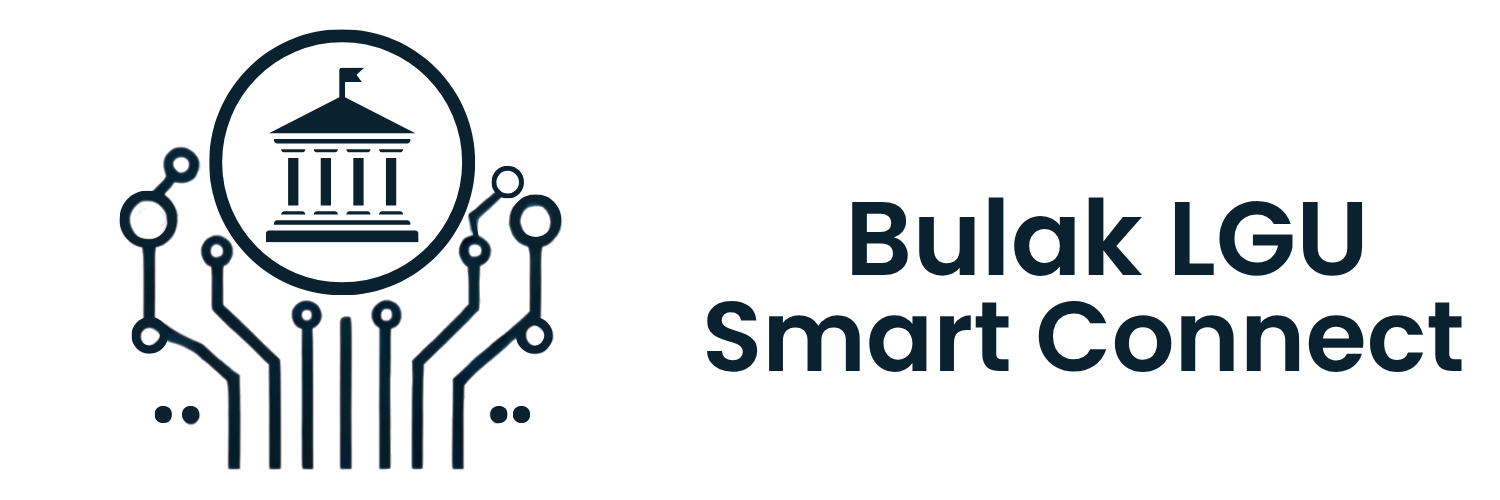
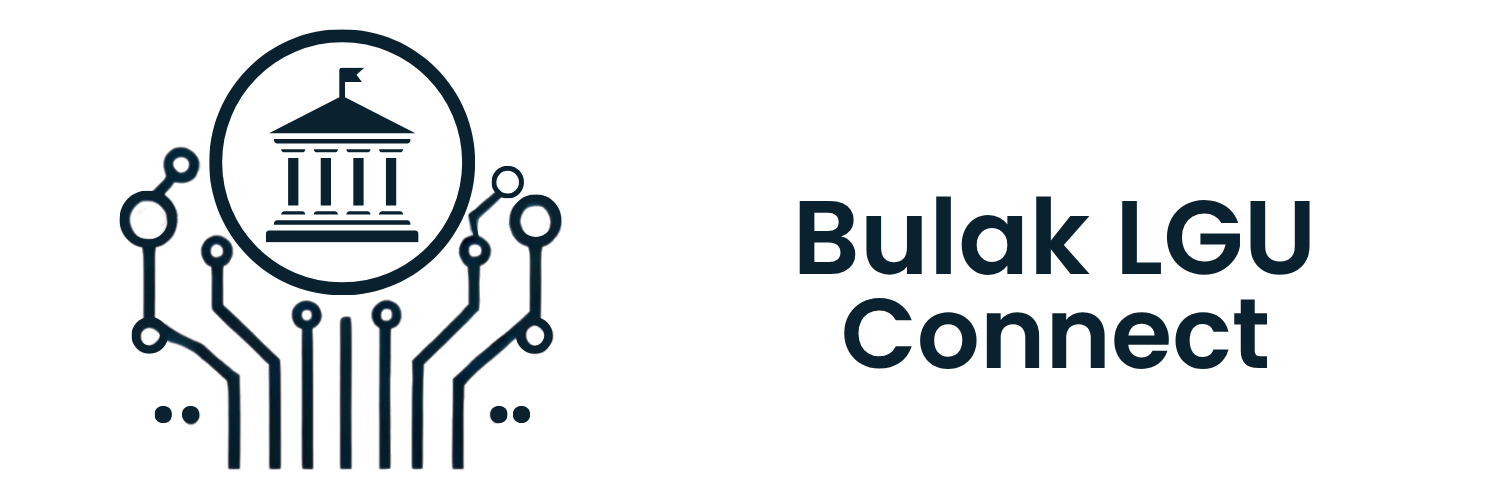
replace project titlle to Bulak LGU Connect

Changed region(s): [[0.46, 0.6, 0.9813, 0.75], [0.5213, 0.39, 0.92, 0.57]]

diff --git a/bulak-smart-connect-js/src/UserBulakSmartConnect/TermsAndConditionComponents/TermsAndCondition.jsx b/bulak-smart-connect-js/src/UserBulakSmartConnect/TermsAndConditionComponents/TermsAndCondition.jsx
@@ -36,9 +36,8 @@ const PrivacyPolicy = () => {
           <div className="english-content">
             <div id="terms-and-conditions">
               <p>
-                <strong>Bulak LGU Smart Connect</strong> Bulak LGU Smart Connect is committed to
-                protecting and respecting your personal data privacy. This website is operated by
-                the
+                <strong>Bulak LGU Connect</strong> Bulak LGU Connect is committed to protecting and
+                respecting your personal data privacy. This website is operated by the
                 <strong> Municipal Civil Registrar Office of San Ildefonso Bulacan</strong> and is
                 fully compliant with the
                 <strong> Data Privacy Act of 2012</strong> (Republic Act No. 10173), the primary law
@@ -49,12 +48,12 @@ const PrivacyPolicy = () => {
                 This Privacy Policy may be revised, modified, or replaced to reflect updates to
                 applicable laws, regulations, or system enhancements. Users will be notified of such
                 changes for review and acceptance. If you do not agree to the updated Privacy
-                Policy, you must stop using the Bulak LGU Smart Connect services.
+                Policy, you must stop using the Bulak LGU Connect services.
               </p>
 
               <h2>Service Description</h2>
               <p>
-                Bulak LGU Smart Connect is an online platform developed for the{' '}
+                Bulak LGU Connect is an online platform developed for the{' '}
                 <strong>Municipal Civil Registrar Office of San Ildefonso.</strong> Through this
                 system, qualified users may request the following civil registry documents:
               </p>
@@ -176,7 +175,7 @@ const PrivacyPolicy = () => {
               <h2>Collection Method</h2>
               <p>
                 The collection of data starts when the user logs onto the{' '}
-                <strong>Bulak LGU Smart Connect </strong>website and agrees to the{' '}
+                <strong>Bulak LGU Connect </strong>website and agrees to the{' '}
                 <strong>User Agreement </strong> and <strong> Privacy Policy. </strong> Without
                 consent, the user cannot proceed. Upon agreement, the user fills out the necessary
                 forms, and personal data is collected based on the document requested.
@@ -252,7 +251,7 @@ const PrivacyPolicy = () => {
               <h1>Terms and Conditions</h1>
 
               <p>
-                Welcome to <strong>Bulak LGU Smart Connect.</strong> These{' '}
+                Welcome to <strong>Bulak LGU Connect.</strong> These{' '}
                 <strong>Terms and Conditions</strong> (“Terms”) govern your use of the Bulak LGU
                 Smart Connect website and services operated by the{' '}
                 <strong>Municipal Civil Registrar Office of San Ildefonso, Bulacan.</strong> By
@@ -262,8 +261,8 @@ const PrivacyPolicy = () => {
 
               <h2>1. Acceptance of Terms</h2>
               <p>
-                By using <strong> Bulak LGU Smart Connect</strong>, you acknowledge that you have to
-                be legally bound by these Terms and our Privacy Policy. If you do not agree with any
+                By using <strong> Bulak LGU Connect</strong>, you acknowledge that you have to be
+                legally bound by these Terms and our Privacy Policy. If you do not agree with any
                 part of these Terms or the Privacy Policy, please do not use the service.
               </p>
 
@@ -386,8 +385,8 @@ const PrivacyPolicy = () => {
           <div className="tagalog-content">
             <div id="terms-and-conditions">
               <p>
-                Ang <strong>Bulak LGU Smart Connect</strong> ay nakatuon sa pagprotekta at paggalang
-                sa inyong pribadong impormasyon. Ang website na ito ay pinapamahalaan ng
+                Ang <strong>Bulak LGU Connect</strong> ay nakatuon sa pagprotekta at paggalang sa
+                inyong pribadong impormasyon. Ang website na ito ay pinapamahalaan ng
                 <strong> Municipal Civil Registrar Office ng San Ildefonso Bulacan</strong> at
                 sumusunod nang lubusan sa
                 <strong> Data Privacy Act ng 2012</strong> (Republic Act No. 10173), ang pangunahing
@@ -399,12 +398,12 @@ const PrivacyPolicy = () => {
                 mga pagbabago sa mga naaangkop na batas, regulasyon, o pagpapahusay ng sistema. Ang
                 mga user ay aabisuhan ng mga pagbabagong ito para sa pagsusuri at pagtanggap. Kung
                 hindi kayo sumasang-ayon sa napapanahong Privacy Policy, dapat kayong tumigil sa
-                paggamit ng mga serbisyo ng Bulak LGU Smart Connect.
+                paggamit ng mga serbisyo ng Bulak LGU Connect.
               </p>
 
               <h2>Paglalarawan ng Serbisyo</h2>
               <p>
-                Ang Bulak LGU Smart Connect ay isang online platform na ginawa para sa{' '}
+                Ang Bulak LGU Connect ay isang online platform na ginawa para sa{' '}
                 <strong>Municipal Civil Registrar Office ng San Ildefonso.</strong> Sa pamamagitan
                 ng sistemang ito, ang mga kwalipikadong user ay maaaring humingi ng mga sumusunod na
                 civil registry documents:
@@ -528,7 +527,7 @@ const PrivacyPolicy = () => {
               <h2>Paraan ng Pagkolekta</h2>
               <p>
                 Ang pagkolekta ng data ay nagsisimula kapag ang user ay nag-log sa{' '}
-                <strong>Bulak LGU Smart Connect </strong>website at sumasang-ayon sa{' '}
+                <strong>Bulak LGU Connect </strong>website at sumasang-ayon sa{' '}
                 <strong>User Agreement </strong> at <strong> Privacy Policy. </strong> Kung walang
                 pahintulot, hindi makakapagpatuloy ang user. Sa pagsang-ayon, pinupunan ng user ang
                 mga kinakailangang form, at ang personal na data ay kinokolekta batay sa hinihinging
@@ -607,8 +606,8 @@ const PrivacyPolicy = () => {
             <div id="terms-and-conditions">
               <h1>Mga Tuntunin at Kundisyon</h1>
               <p>
-                Maligayang pagdating sa <strong>Bulak LGU Smart Connect.</strong> Ang mga Tuntunin
-                at Kundisyon na ito (“Tuntunin”) ay namamahala sa iyong paggamit ng website at mga
+                Maligayang pagdating sa <strong>Bulak LGU Connect.</strong> Ang mga Tuntunin at
+                Kundisyon na ito (“Tuntunin”) ay namamahala sa iyong paggamit ng website at mga
                 serbisyong iniaalok ng Tanggapan ng{' '}
                 <strong>Municipal Civil Registrar ng San Ildefonso, Bulacan.</strong> Sa pag-access
                 o paggamit ng website at serbisyo, ikaw ay sumasang-ayon na sumunod at mapailalim sa
@@ -617,7 +616,7 @@ const PrivacyPolicy = () => {
 
               <h2>1. Pagtanggap sa mga Tuntunin</h2>
               <p>
-                Sa paggamit ng <strong>Bulak LGU Smart Connect,</strong> kinikilala mong nabasa mo,
+                Sa paggamit ng <strong>Bulak LGU Connect,</strong> kinikilala mong nabasa mo,
                 naintindihan, at sumasang-ayon kang legal na sumunod sa mga Tuntunin at aming
                 Patakaran sa Privacy. Kung hindi ka sumasang-ayon sa alinmang bahagi ng mga ito,
                 mangyaring huwag gamitin ang serbisyo.

diff --git a/bulak-smart-connect-js/src/LandingPageComponents/LandingPage.jsx b/bulak-smart-connect-js/src/LandingPageComponents/LandingPage.jsx
@@ -1,5 +1,20 @@
 import React, { useState, useEffect } from 'react';
-import { Box, Typography, Button, Card, CardContent, Modal, Dialog, DialogTitle, DialogContent, List, ListItem, ListItemText, Container, Grid } from '@mui/material';
+import {
+  Box,
+  Typography,
+  Button,
+  Card,
+  CardContent,
+  Modal,
+  Dialog,
+  DialogTitle,
+  DialogContent,
+  List,
+  ListItem,
+  ListItemText,
+  Container,
+  Grid,
+} from '@mui/material';
 import logger from '../utils/logger';
 import { styled } from '@mui/material/styles';
 import './LandingPage.css';
@@ -18,7 +33,7 @@ import { announcementService } from '../services/announcementService';
 const LandingPage = () => {
   const { isAuthenticated } = useAuth();
   const navigate = useNavigate();
-    const [showAppointmentContent, setShowAppointmentContent] = useState(false);
+  const [showAppointmentContent, setShowAppointmentContent] = useState(false);
 
   const [announcements, setAnnouncements] = useState([]);
   const [announcementLoading, setAnnouncementLoading] = useState(true);
@@ -44,7 +59,7 @@ const LandingPage = () => {
       setAnnouncementLoading(false);
     }
   };
-    const handleRequirementClick = type => {
+  const handleRequirementClick = type => {
     if (type === 'birth') {
       navigate('/RequirementBirthList');
     } else if (type === 'marriage') {
@@ -61,9 +76,9 @@ const LandingPage = () => {
       <Box className=" NavbarLanding">
         <NavBar />
       </Box>
-      
-      <Dialog 
-        open={requirementsModalOpen} 
+
+      <Dialog
+        open={requirementsModalOpen}
         onClose={() => setRequirementsModalOpen(false)}
         maxWidth="sm"
         fullWidth
@@ -78,32 +93,32 @@ const LandingPage = () => {
         </DialogTitle>
         <DialogContent>
           <List>
-            <ListItem 
-              button 
+            <ListItem
+              button
               onClick={() => handleRequirementClick('birth')}
               style={{ cursor: 'pointer', borderRadius: '8px', marginBottom: '8px' }}
             >
-              <ListItemText 
+              <ListItemText
                 primary="Birth Certificate Requirements"
                 secondary="View required documents for birth certificate applications"
               />
             </ListItem>
-            <ListItem 
-              button 
+            <ListItem
+              button
               onClick={() => handleRequirementClick('marriage')}
               style={{ cursor: 'pointer', borderRadius: '8px', marginBottom: '8px' }}
             >
-              <ListItemText 
+              <ListItemText
                 primary="Marriage License Requirements"
                 secondary="View required documents for marriage license/certificate applications"
               />
             </ListItem>
-            <ListItem 
-              button 
+            <ListItem
+              button
               onClick={() => handleRequirementClick('death')}
               style={{ cursor: 'pointer', borderRadius: '8px', marginBottom: '8px' }}
             >
-              <ListItemText 
+              <ListItemText
                 primary="Death Certificate Requirements"
                 secondary="View required documents for death certificate applications"
               />
@@ -124,24 +139,23 @@ const LandingPage = () => {
                   Fast Queues, Simple Transactions, Better Service
                 </Typography>
                 <Typography variant="body1" className="HeroDescriptionLanding">
-                  <strong className="LandingTitle"> Bulak LGU Smart Connect</strong> for the civil
+                  <strong className="LandingTitle"> Bulak LGU Connect</strong> for the civil
                   registrar office of San Ildefonso Bulacan, offers fast queuing, simplified
                   transactions, and improved government services by allowing residents to manage
                   their queues and applications online, enhancing service efficiency and
                   convenience.
                 </Typography>
-               
-                   <Button 
-    variant="contained" 
-    color="primary" 
-    className="SignUpButtonLanding"
-    onClick={isAuthenticated ? handleViewRequirements : undefined}
-    component={isAuthenticated ? 'button' : Link}
-    to={isAuthenticated ? undefined : '/SignUpForm'}
-  >
-    {isAuthenticated ? 'VIEW REQUIREMENTS' : 'SIGN UP'}
-  </Button>
-             
+
+                <Button
+                  variant="contained"
+                  color="primary"
+                  className="SignUpButtonLanding"
+                  onClick={isAuthenticated ? handleViewRequirements : undefined}
+                  component={isAuthenticated ? 'button' : Link}
+                  to={isAuthenticated ? undefined : '/SignUpForm'}
+                >
+                  {isAuthenticated ? 'VIEW REQUIREMENTS' : 'SIGN UP'}
+                </Button>
               </Box>
             </Grid>
           </Grid>
@@ -292,8 +306,8 @@ const LandingPage = () => {
                     className="AboutDescriptionLanding"
                     sx={{ lineHeight: 1.7 }}
                   >
-                    <b>Bulak LGU Smart Connect</b> is the official digital queue and information
-                    system for the Municipal Civil Registrar of San Ildefonso, Bulacan.
+                    <b>Bulak LGU Connect</b> is the official digital queue and information system
+                    for the Municipal Civil Registrar of San Ildefonso, Bulacan.
                     <br />
                     <br />
                     Our mission is to provide fast, organized, and transparent public service.

diff --git a/bulak-smart-connect-js/src/LogInComponents/LogInContent.jsx b/bulak-smart-connect-js/src/LogInComponents/LogInContent.jsx
@@ -13,12 +13,12 @@ const LogInContent = () => {
 
       {/* Main Title */}
       <Typography variant="h3" className="MainTitle">
-        Bulak LGU Smart Connect
+        Bulak LGU Connect
       </Typography>
 
       {/* Placeholder Text */}
       <Typography variant="body1" className="PlaceholderText">
-        <b>Bulak LGU Smart Connect</b> is the official digital queue and information system for the
+        <b>Bulak LGU Connect</b> is the official digital queue and information system for the
         Municipal Civil Registrar of San Ildefonso, Bulacan.
         <br />
       </Typography>

diff --git a/bulak-smart-connect-js/src/components/InstallPrompt.jsx b/bulak-smart-connect-js/src/components/InstallPrompt.jsx
@@ -67,7 +67,7 @@ const InstallPrompt = ({ open, onClose }) => {
           />
         </Box>
         <Typography variant="h6" sx={{ flexGrow: 1, fontWeight: 600, color: PRIMARY_BLUE }}>
-          Install Bulak LGU Smart Connect
+          Install Bulak LGU Connect
         </Typography>
         <IconButton onClick={onClose} sx={{ color: '#757575' }}>
           <CloseIcon />
